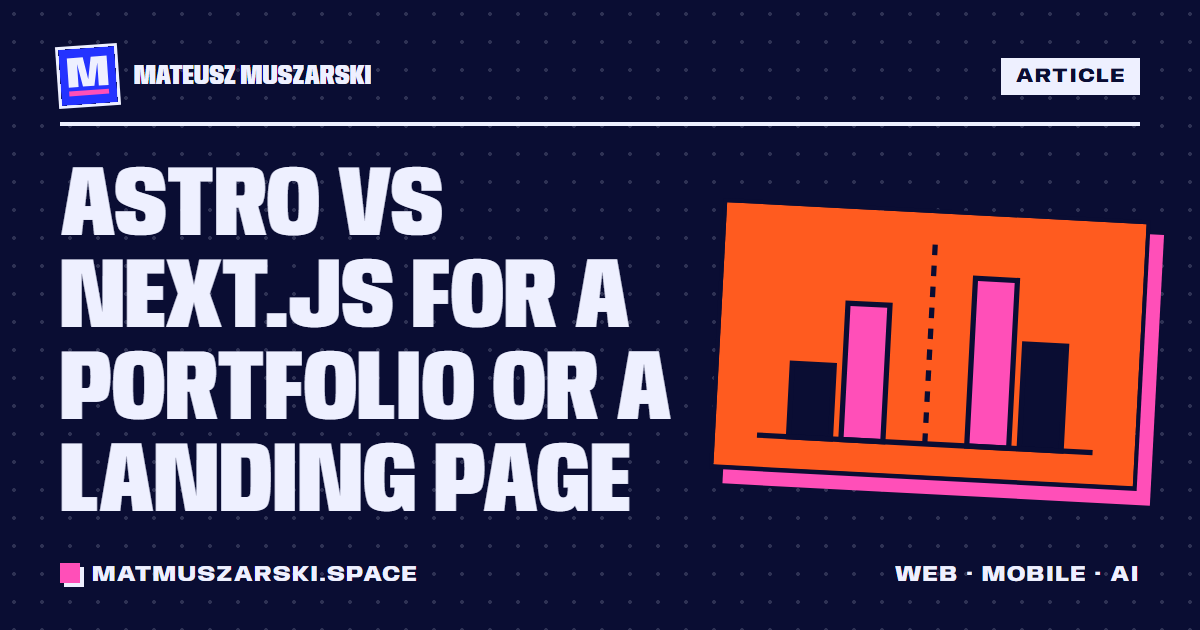
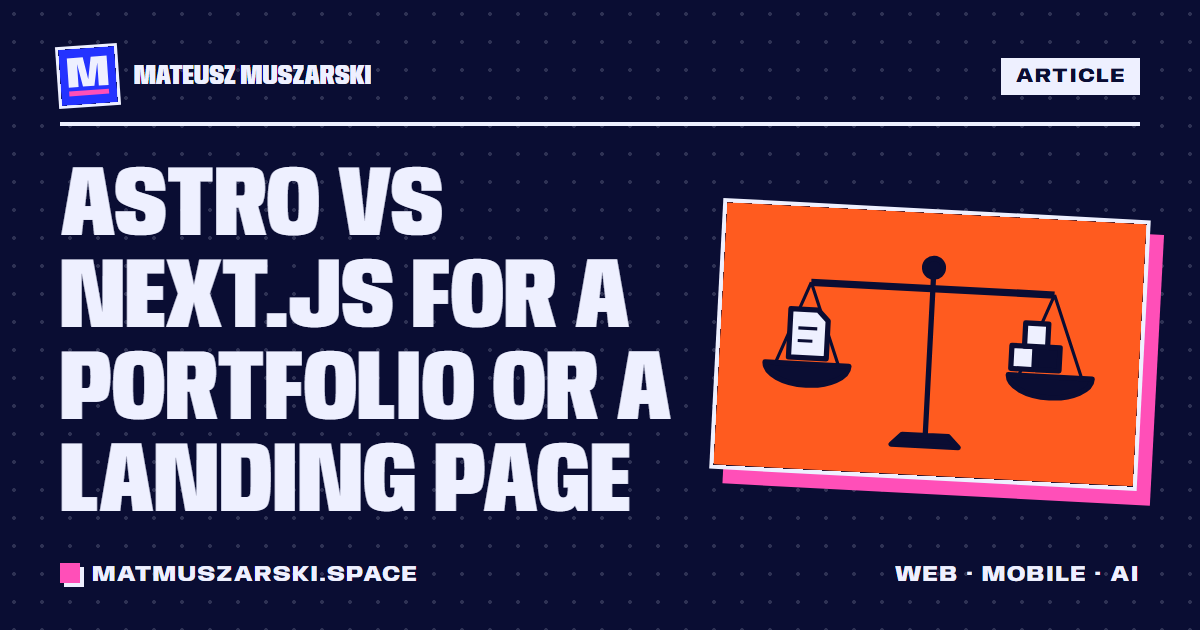
feat(blog): redraw post covers with fixed palettes and literal pictures
Each cover now owns one harmonious palette (a ground, one ink, one
accent) instead of a tone picked by list position, so a post looks the
same on the index, the home teaser, its page and its OG image. The
motifs say the topic without words: a terminal wired to a skill, hook,
MCP plug and subagents; a level scale; a crossed-out cookie next to
bars; swapped speech bubbles; one letter stretched wall to wall; one
file to a spark to three files. Cover ids renamed to match.

Changed region(s): [[0.5858, 0.3016, 0.9558, 0.7841], [0.74, 0.3317, 0.9558, 0.3619]]

diff --git a/apps/web/src/lib/blog.ts b/apps/web/src/lib/blog.ts
@@ -18,7 +18,7 @@ export const BLOG_TAGS = [
 export type BlogTag = (typeof BLOG_TAGS)[number];
 
 /** Code-drawn covers (PostCover.astro), one motif per topic. */
-export const BLOG_COVERS = ["blueprint", "pipeline", "wiki", "translate", "compare", "type", "motion", "shield", "globe"] as const;
+export const BLOG_COVERS = ["blueprint", "terminal", "wiki", "bubbles", "scale", "type", "motion", "cookie", "catalogs"] as const;
 export type BlogCover = (typeof BLOG_COVERS)[number];
 
 /** Words per minute for technical prose on a screen (code and tables read slower; this is conservative). */

diff --git a/.claude/project-info/design/design.md b/.claude/project-info/design/design.md
@@ -95,7 +95,7 @@ Tokens: `apps/web/src/styles/global.css` `:root`; `tokens.test.ts` checks AA for
 | How I work | `home/HowIWork.astro` | 7-stop ring (CSS trig), every stop's text in the HTML, auto-advance while visible, tap holds 9 s; receipts fall back when a project is hidden by the rights gate. Each stop opens on a **drawn scene** in its receipt's colour [user 2026-10-06: "more visually storytelling", less reading]: client (shop + an earnings bubble), users (a phone snaps, flashcards deal out), conversion (a short form fills, a tap, a check), revenue (free trial → monthly / yearly, RevenueCat mark), code (a test terminal: Clockful's 49 Vitest / 69 Playwright / RLS 5/5 + a "118" sticker; the fallback shows this site's checks), ship (both store badges checked, a rocket), measure (gauges 34 → 99). CSS only, sized in container units; paused or reduced motion shows the finished picture. The stop line shrank to a caption |
 | AI workflow | `home/AiWorkflow.astro` | an org chart [user 2026-10-06: "I run AI like a team"]: one fitted line "I run AI like a team.", a centred lede, ID badges on lanyards: Me (Lead) → Claude Code (Builder), then a crew of six: Memory (project wiki, "Karpathy-style LLM wiki"), Rules (hooks: guardrails and scripts), Research (subagents), Tools (MCP servers: Mobbin, component registry, Playwright), Playbooks (skills), Quality (gates). **No counts** [user 2026-10-06: "dont give precise numbers"]: one line and example chips per badge, and enamel pins with the tools' marks (Markdown, Claude, MCP, Lighthouse, TypeScript, ESLint, Vitest; "Pw" monogram). Micro-motion in CSS: badges swing on their lanyards (`rotate`, staggered), the Claude mark pulses, hover lifts a badge, tips its icon and pops its pins; dashed wires flow; all pause like every loop. One CTA, "How this site was built". Crew in 6 → 3 → 2 columns (≤ 1200 / ≤ 640 px) |
 | Credentials | `home/Credentials.astro` | from `data/cv.ts`. > 900 px: a readable list on the left, the open row's media + details on the right (hover on fine pointers, focus or tap opens a row; one is always open). ≤ 900 px: an accordion [user 2026-10-06: collapsed vertical cards were unreadable]. Each credential has its own palette pair (INF cobalt, Three.js navy, Udemy yellow, Erasmus lime, hackathons orange, short courses pink): a tilted icon tile in the list, the open row's fill, the panel with a hard shadow [user 2026-10-06: the coloured cards were nicer]. Media still to come shows the credential's icon as a bobbing sticker on a dot grid. **Idle tour** (> 900 px): after 5 s with the list in view and no hover, focus or click there, a drawn cursor flies in, clicks the next row and leaves (Web Animations); off under paused or reduced motion; the video stays on its poster until the visitor has interacted. Media loads on open; all open without JS |
-| Latest writing | `home/LatestWriting.astro`, `blog/PostCard.astro` (`compact`), `blog/PostCover.astro` | compact [user 2026-10-06]: kicker + plain h2 + "All posts" on the right, three small horizontal cards (cover thumbnail, date, title); covers are code-drawn SVG motifs. Made less flat [user 2026-10-06]: the field has a faint dot grid, the title a drawn pink underline, the cards are paper notes with a strip of tape (yellow / lime / pink), a slight tilt and a hard shadow; they straighten and lift on hover or focus. Pattern guessed (the pstrykweb.pl blog it was to copy returned 404) |
+| Latest writing | `home/LatestWriting.astro`, `blog/PostCard.astro` (`compact`), `blog/PostCover.astro` | compact [user 2026-10-06]: kicker + plain h2 + "All posts" on the right, three small horizontal cards (cover thumbnail, date, title); covers are code-drawn SVG pictures, one per topic with its own fixed palette (ground + one ink + one accent; never orange next to pink) and no words on them [user 2026-10-06: better harmonies, more intuitive, no text]: blueprint page, terminal with skill / hook / MCP plug / subagents, linked wiki pages, swapped speech bubbles, a level scale, one letter stretched wall to wall, a paused orbit, a crossed-out cookie next to bars, one file → spark → three files. The same palette shows on the index, the teaser, the post and its OG image. Made less flat [user 2026-10-06]: the field has a faint dot grid, the title a drawn pink underline, the cards are paper notes with a strip of tape (yellow / lime / pink), a slight tilt and a hard shadow; they straighten and lift on hover or focus. Pattern guessed (the pstrykweb.pl blog it was to copy returned 404) |
 | Contact | `home/Contact.astro`, `lib/contact.ts`, `api/contact.ts` | the Copy email tile is the widest and wraps the address at the "@", never cuts it [2026-10-06]; message first; reply field appears after typing and fills itself from the message; optional topic chips (A job / A project / A question); Turnstile on first keystroke; works without JS (303 to `/contact/sent/` or `/contact/error/`). Three direct tiles: Copy email, LinkedIn, GitHub (the CV tile and the "Open to selected freelance projects" line are removed [user 2026-10-06]) |
 | Pages | `pages/[locale]/{work,cv,cv/print,my-life,privacy,terms,blog,blog/[slug]}` | Poster headers (fitted titles), prose on the alt field (`styles/prose.css`), sticky TOC on wide screens |
 

diff --git a/.claude/project-info/log.md b/.claude/project-info/log.md
@@ -28,3 +28,4 @@
 ## [2026-10-06] build | First paint complete [user: a first visit showed only the name for up to 1 s]: `.rise` is a 10 px settle with no opacity 0, sticker pops without delay, rule draws in 0.6 s. My life: photography toy on the page (focus ring, shutter, prints); self-improvement is a race of two orbs (+1 day, hold to fast-forward, milestone chips and flags, confetti at a year; the slider is gone) [user: more fun, no figures]; a rolled film is the picture only [user]. pl/es filled.
 ## [2026-10-06] contact | EmailJS replaces Resend [owner]: `api/contact.ts` calls the EmailJS REST API from the server (keys never reach the browser, bot checks stay); env names in `.env.example` + technologies.md; privacy policy (en/pl/es) names EmailJS Pte. Ltd. (Singapore, US servers, SCCs) and the mailbox Google Ireland Limited (Gmail); compliance + requirements updated. Certificates received (9) and kept private in `context/certs/`.
 ## [2026-10-06] contact | Live form sent nothing: every POST crashed (500, `ERR_MODULE_NOT_FOUND`): Vercel runs `api/contact.ts` as native ESM and its extensionless `../src/lib/contact` import didn't resolve. Fixed with `.js` + a unit test; reproduced and verified by compiling both files to ESM and importing them in Node. The page read Vercel's `{error:{…}}` body as an error kind, so the toast and note went empty: errors now get their own alert box, unknown answers fall back to "can't send right now", the privacy note stays put (underlined) [user].
+## [2026-10-06] blog | Covers redrawn [user: colour harmonies, intuitiveness, no text]: each cover owns its palette (no index `tone` prop; OG script stops retoning) and a literal picture of its topic; ids renamed to match (`terminal`, `bubbles`, `scale`, `cookie`, `catalogs`). OG images regenerated.
